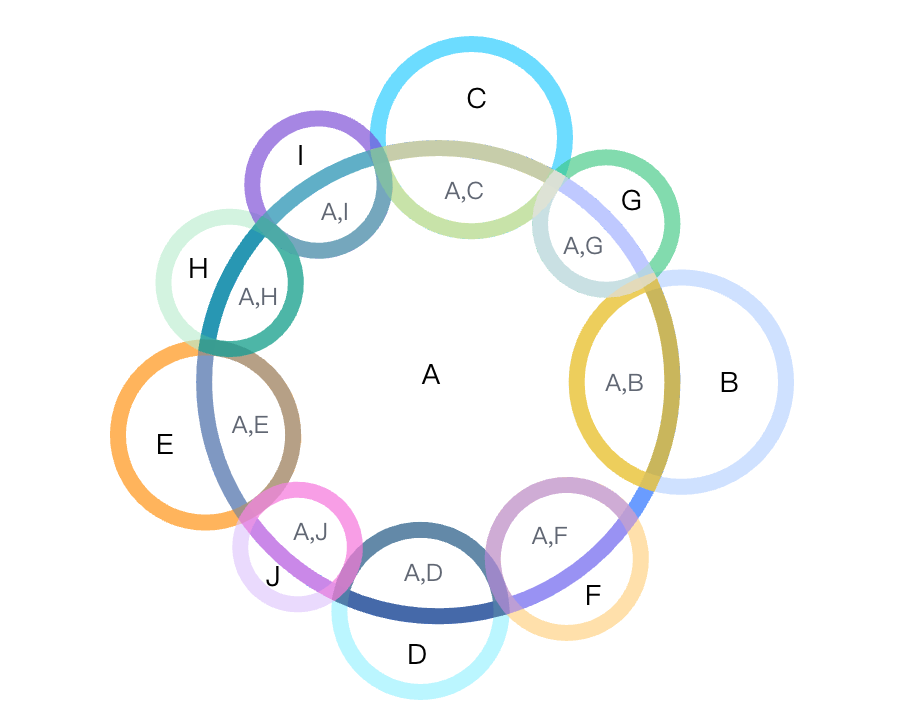
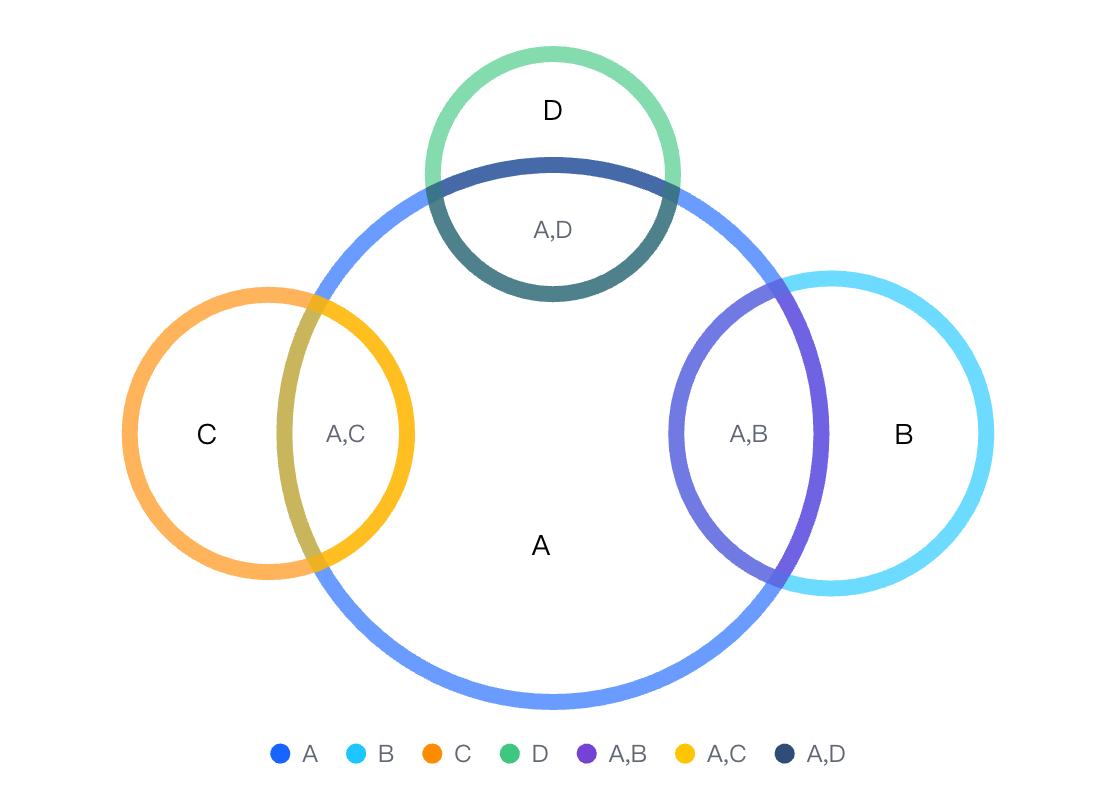
fix: update hollow venn demo

diff --git a/docs/assets/examples/en/venn-chart/venn-chart-hollow.md b/docs/assets/examples/en/venn-chart/venn-chart-hollow.md
@@ -28,25 +28,13 @@ const spec = {
   type: 'venn',
   data: {
     values: [
-      { sets: ['A'], value: 50 },
+      { sets: ['A'], value: 30 },
       { sets: ['B'], value: 10 },
       { sets: ['C'], value: 8 },
       { sets: ['D'], value: 6 },
-      { sets: ['E'], value: 7 },
-      { sets: ['F'], value: 5 },
-      { sets: ['G'], value: 4 },
-      { sets: ['H'], value: 4 },
-      { sets: ['I'], value: 4 },
-      { sets: ['J'], value: 3 },
       { sets: ['A', 'B'], value: 4 },
       { sets: ['A', 'C'], value: 3 },
-      { sets: ['A', 'D'], value: 3 },
-      { sets: ['A', 'E'], value: 3 },
-      { sets: ['A', 'F'], value: 3 },
-      { sets: ['A', 'G'], value: 2 },
-      { sets: ['A', 'H'], value: 2 },
-      { sets: ['A', 'I'], value: 2 },
-      { sets: ['A', 'J'], value: 2 }
+      { sets: ['A', 'D'], value: 3 }
     ]
   },
   categoryField: 'sets',

diff --git a/docs/assets/examples/zh/venn-chart/venn-chart-hollow.md b/docs/assets/examples/zh/venn-chart/venn-chart-hollow.md
@@ -28,25 +28,13 @@ const spec = {
   type: 'venn',
   data: {
     values: [
-      { sets: ['A'], value: 50 },
+      { sets: ['A'], value: 30 },
       { sets: ['B'], value: 10 },
       { sets: ['C'], value: 8 },
       { sets: ['D'], value: 6 },
-      { sets: ['E'], value: 7 },
-      { sets: ['F'], value: 5 },
-      { sets: ['G'], value: 4 },
-      { sets: ['H'], value: 4 },
-      { sets: ['I'], value: 4 },
-      { sets: ['J'], value: 3 },
       { sets: ['A', 'B'], value: 4 },
       { sets: ['A', 'C'], value: 3 },
-      { sets: ['A', 'D'], value: 3 },
-      { sets: ['A', 'E'], value: 3 },
-      { sets: ['A', 'F'], value: 3 },
-      { sets: ['A', 'G'], value: 2 },
-      { sets: ['A', 'H'], value: 2 },
-      { sets: ['A', 'I'], value: 2 },
-      { sets: ['A', 'J'], value: 2 }
+      { sets: ['A', 'D'], value: 3 }
     ]
   },
   categoryField: 'sets',
